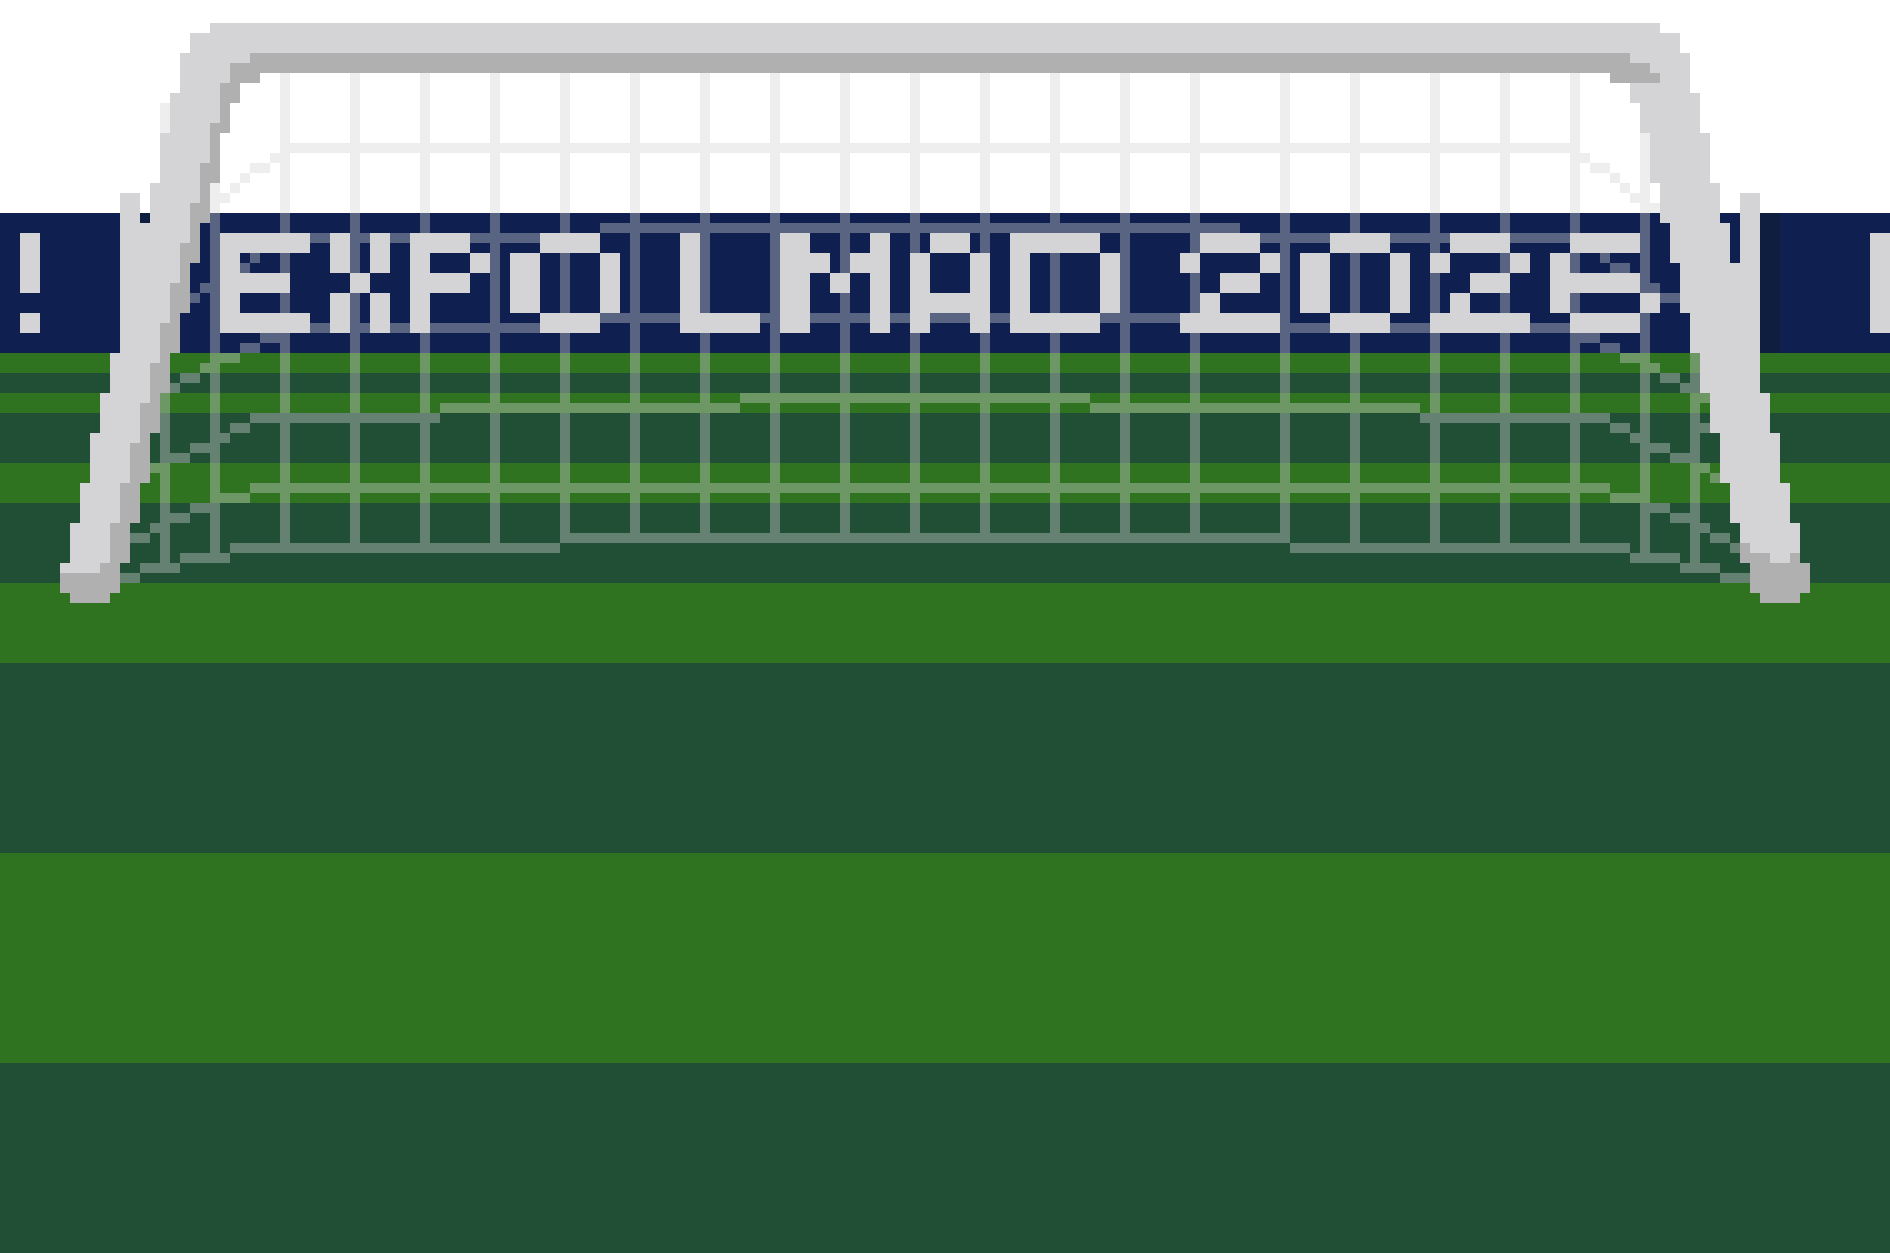
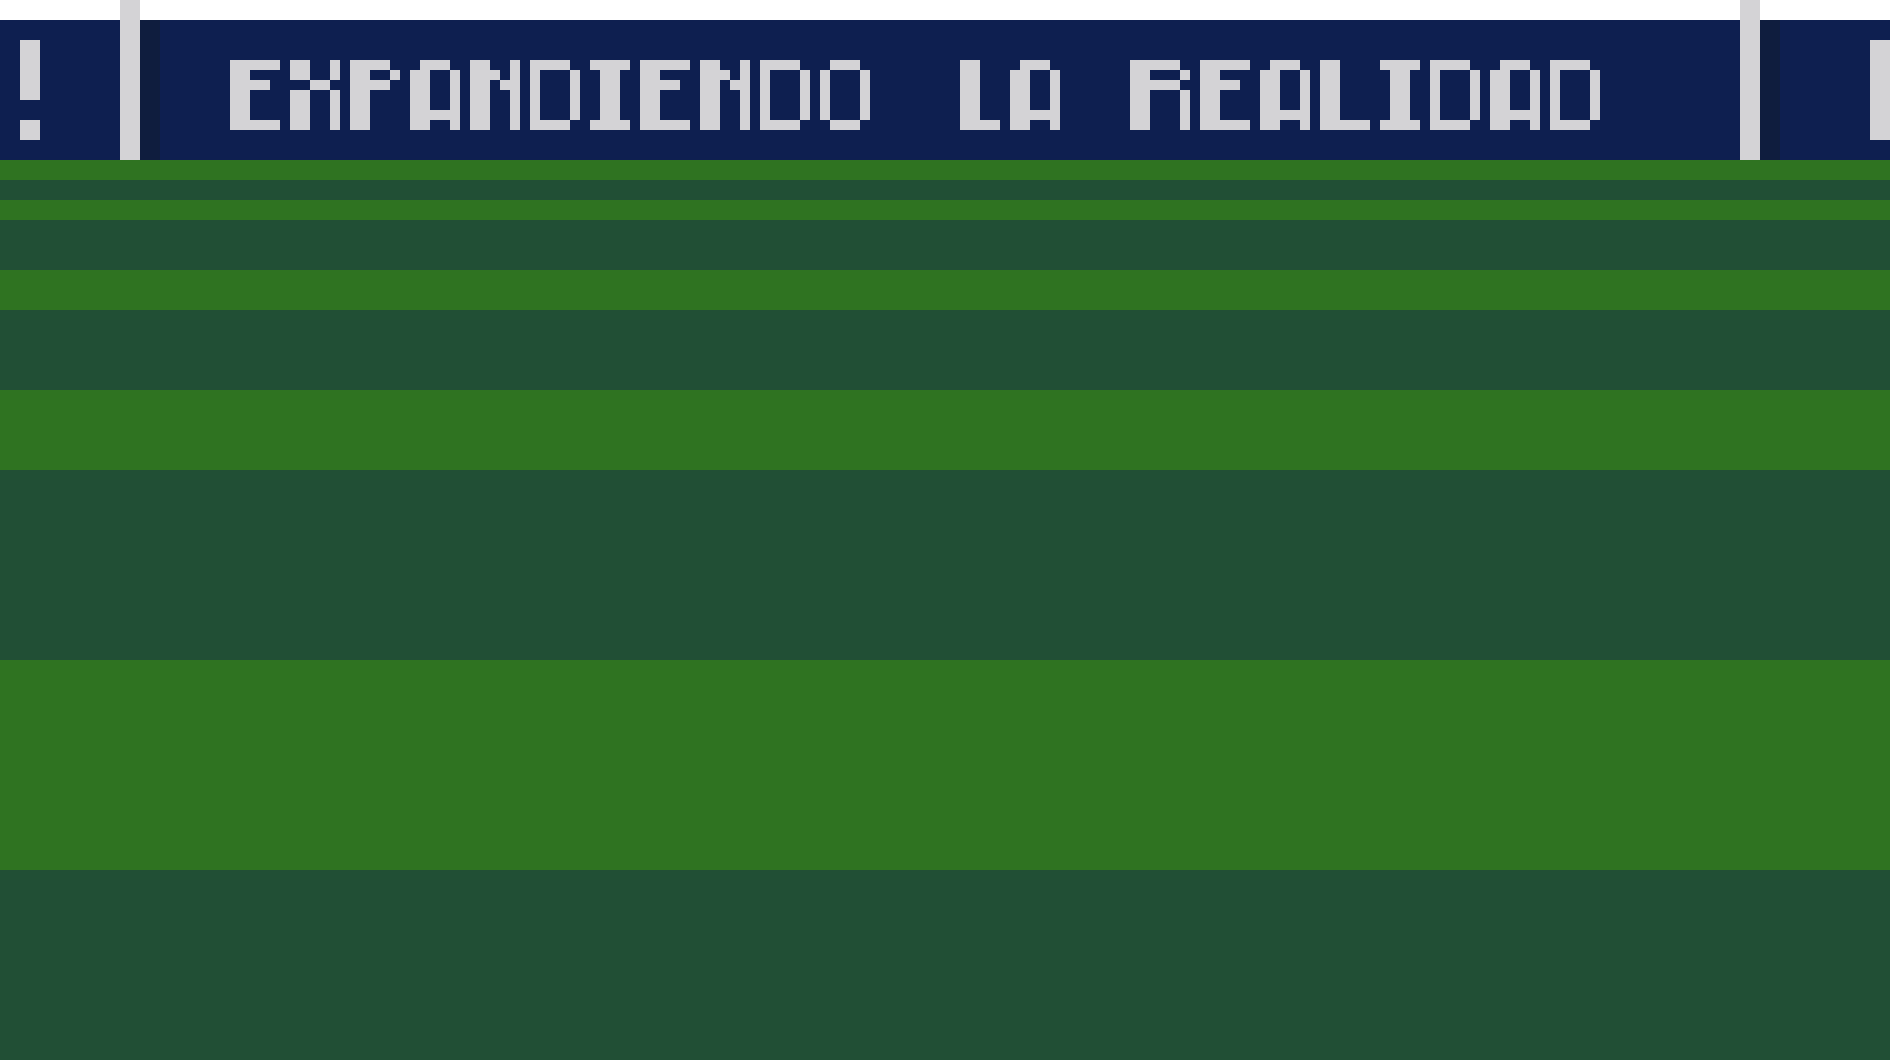
update

diff --git a/public/css/cronograma.css b/public/css/cronograma.css
@@ -43,9 +43,9 @@ body
 
 h1 {
     font-family: "Anton SC";
-    text-justify: auto;
+    text-align: center;
     font-size: 15rem;
-    color: C8D93D;
+    color: #C8D93D;
 }
 
 .body-container-expo-schedule {
@@ -54,7 +54,7 @@ h1 {
     background: transparent;
     width: auto;
     position: relative;
-    top: 100%;
+    top: 40%;
     /* height: 2550px; */
     height: fit-content;
     user-select: text;
@@ -76,13 +76,6 @@ body{
     background:  -webkit-linear-gradient(90deg, #1c481a 0%, #1c481a 0.01%, #0a1c33 100%, #0a1c33 100%);
     height: 100%;
     background-attachment: fixed;
-}
-
-@media (max-width: 768px) {
-    h1 {
-        font-size: 5rem;
-        word-wrap: break-word;
-    }
 }
 
 .blum{
@@ -159,4 +152,46 @@ body{
 
 .sponsor:hover {
     transform: scale(1.1);
+}
+
+.title{
+    font-size: 18rem;
+    position: absolute;
+    top: -30rem;
+}
+
+@media (max-width: 768px) {
+    h1 {
+        font-family: "Anton SC";
+        text-align: center;
+        font-size: 5rem;
+        word-wrap: break-word;
+    }
+
+    .body-container-expo-schedule {
+        z-index: 8 !important;
+        transition: height 0.3s;
+        background: transparent;
+        width: auto;
+        position: relative;
+        top: 50dvh ;
+        /* height: 2550px; */
+        height: fit-content;
+        user-select: text;
+    }
+
+    .title{
+        font-size: 7rem;
+        position: absolute;
+        top: -17rem;
+    }
+
+    .container-gradient{
+        top:18rem;
+        position: absolute;
+    }
+}
+
+@media (max-width: 364px) {
+    
 }

diff --git a/resources/views/welcome.blade.php b/resources/views/welcome.blade.php
@@ -72,11 +72,11 @@
         <div class="body-container-expo-schedule">
             <img src="{{asset('images/Cancha_v1.png')}}" class="header-expo-3" style="padding: 0;">
 
-            <div class="container-gradient"> <!--Meter toda la info aquí-->
+            <div class="container-gradient">
 
-                <h1> NUESTRAS ESTRELLAS </h1>
+                <h1 class="title"> NUESTRAS ESTRELLAS </h1>
 
-                <div class="row px-20">
+                <div class="row px-20 mx-auto">
 
                     <div class="blum col-12 col-lg-4">
                         <div class="star">
@@ -108,27 +108,33 @@
                         </div>
                     </div>
 
-                    <div class="blum col-lg-4">
-                        <div class="star">
-                            <img src="{{asset('images/sponsor(3).svg')}}" class="img-fluid sponsor">
-                        </div>
-                    </div>
-                    
-                    <div class="blum col-lg-4">
+                    <div class="blum col-12 col-lg-4">
                         <div class="star">
                             <img src="{{asset('images/sponsor(1).svg')}}" class="img-fluid sponsor">
                         </div>
                     </div>
 
-                    <div class="blum col-lg-4">
+                    <div class="blum col-12 col-lg-4">
                         <div class="star">
                             <img src="{{asset('images/sponsor(2).svg')}}" class="img-fluid sponsor">
                         </div>
                     </div>
 
-                    <div class="blum col-lg-4">
+                    <div class="blum col-12 col-lg-4">
                         <div class="star">
                             <img src="{{asset('images/sponsor(3).svg')}}" class="img-fluid sponsor">
+                        </div>
+                    </div>
+
+                    <div class="blum col-12 col-lg-4">
+                        <div class="star">
+                            <img src="{{asset('images/sponsor(1).svg')}}" class="img-fluid sponsor">
+                        </div>
+                    </div>
+
+                    <div class="blum col-12 col-lg-4">
+                        <div class="star">
+                            <img src="{{asset('images/sponsor(2).svg')}}" class="img-fluid sponsor">
                         </div>
                     </div>
 
